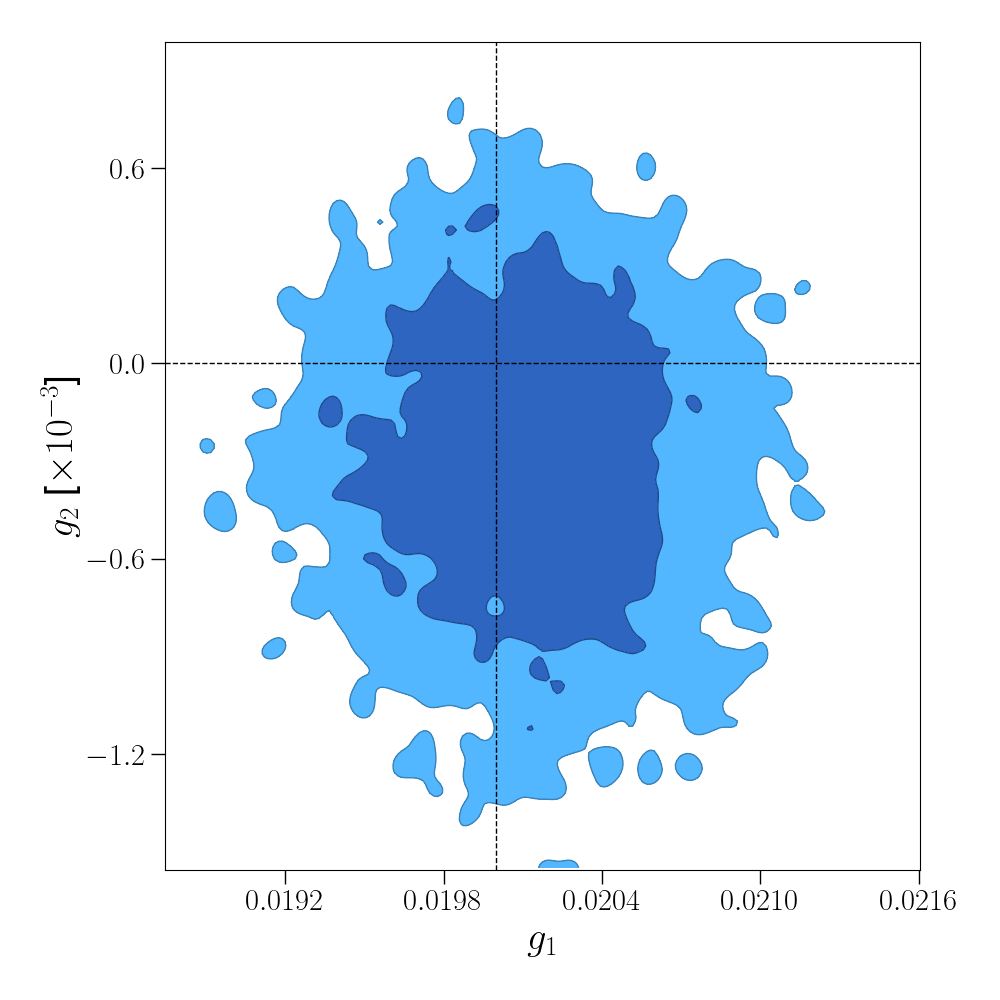
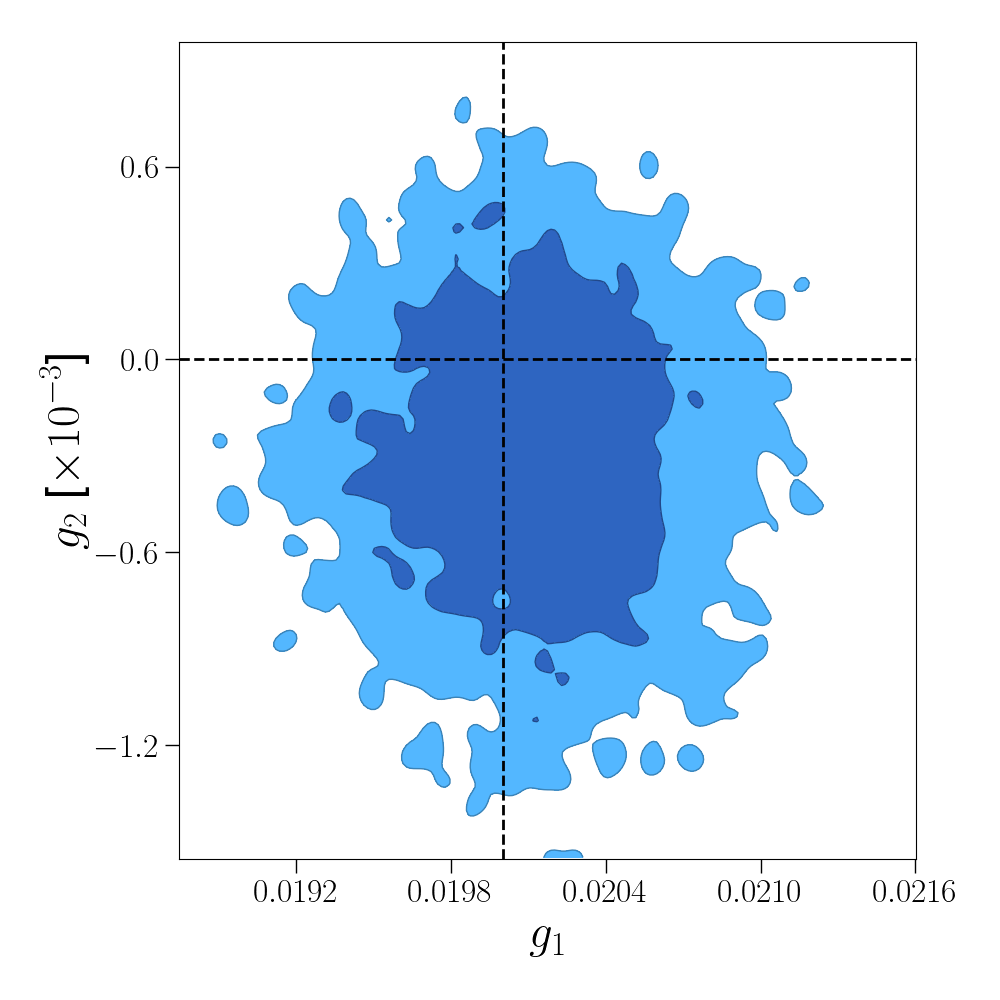
contour shear adjustments

diff --git a/scripts/get_paper_figures.py b/scripts/get_paper_figures.py
@@ -73,7 +73,7 @@ def make_contour_shear_figure(fpath: str | Path):
 
     c.add_chain(chain)
     c.set_override(ChainConfig(sigmas=[0, 1, 2]))
-    c.add_truth(Truth(location={"g1": 0.02, "g2": 0.0}, color="k"))
+    c.add_truth(Truth(location={"g1": 0.02, "g2": 0.0}, color="k", line_width=2.0))
 
     c.set_plot_config(
         PlotConfig(
@@ -81,7 +81,7 @@ def make_contour_shear_figure(fpath: str | Path):
             plot_hists=False,
             labels={"g1": "$g_{1}$", "g2": "$g_{2}$"},
             label_font_size=34,
-            tick_font_size=22,
+            tick_font_size=24,
             diagonal_tick_labels=False,
         )
     )
